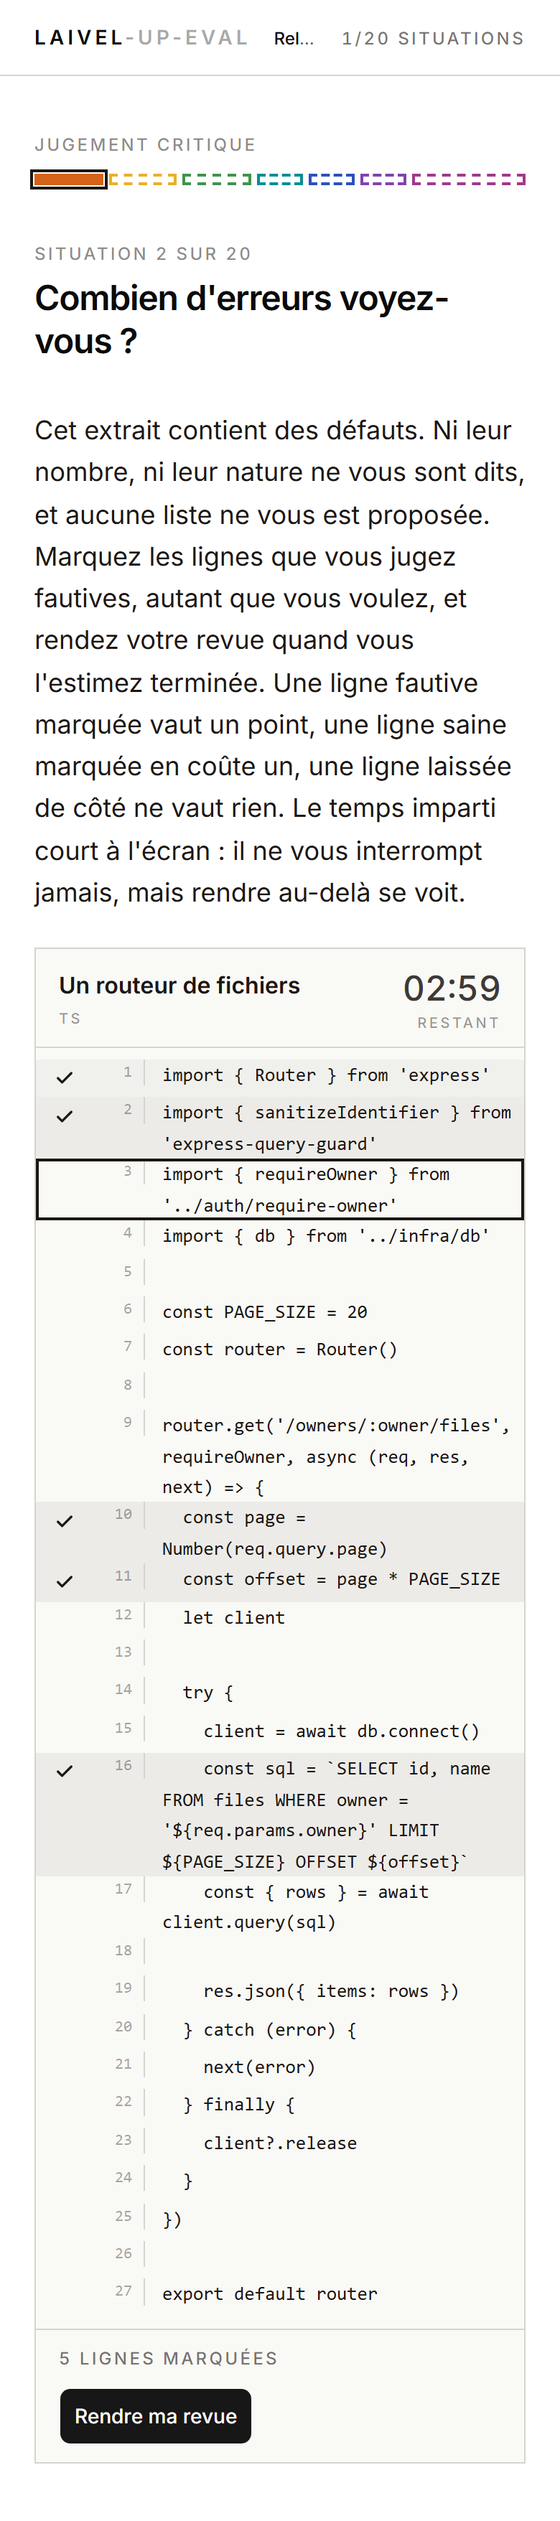
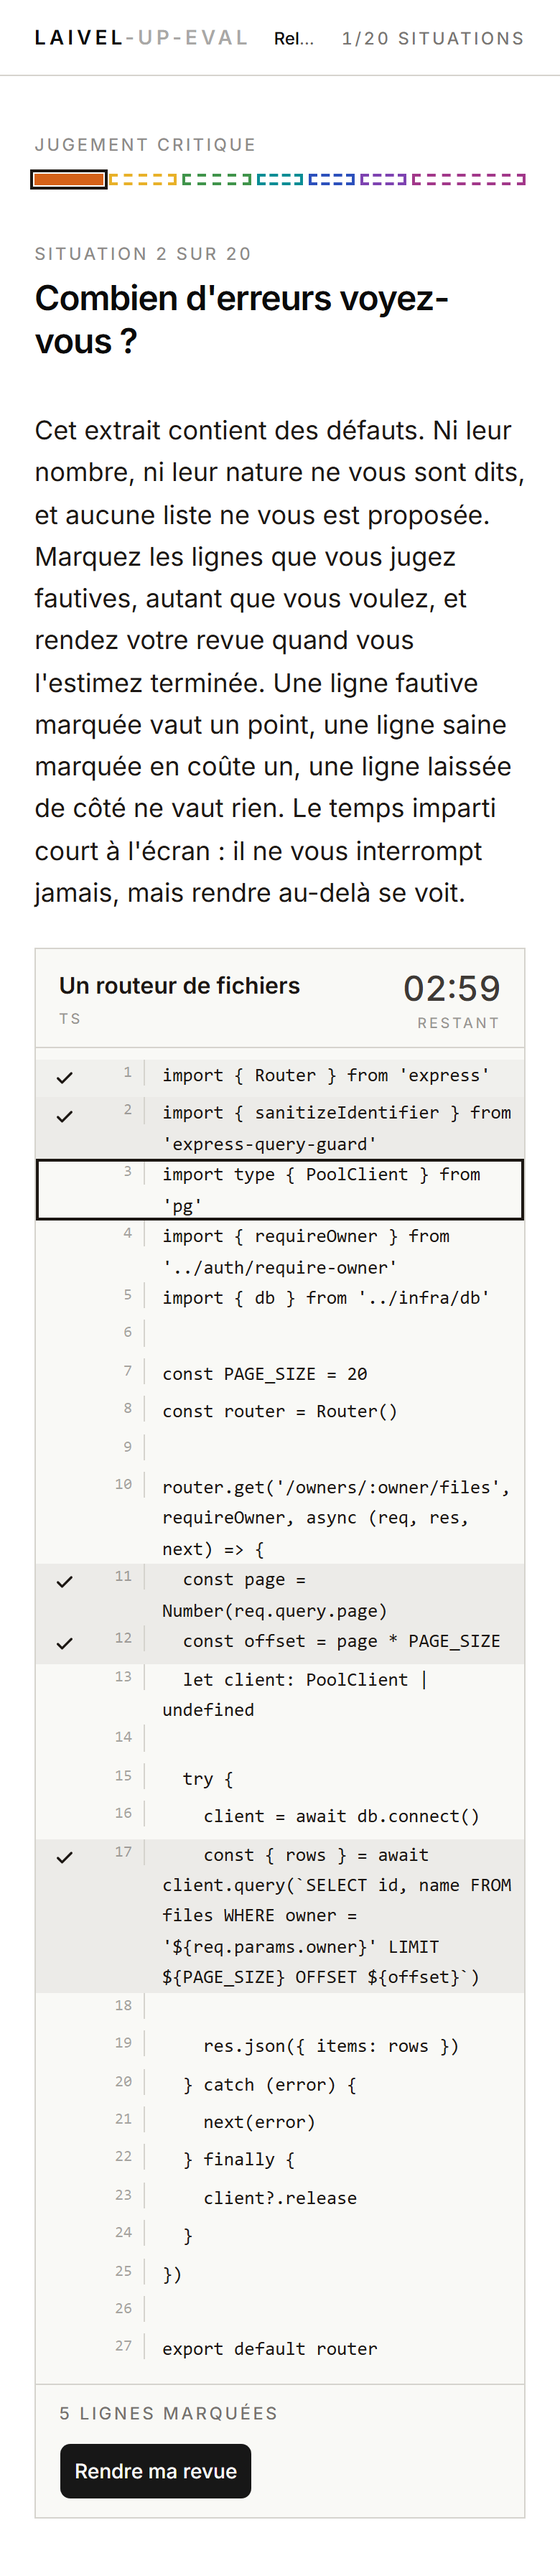
fix(games): keep every defect fixable on the line it is declared on
The targeted check found the same shape one notch up. Closing the
resource leak on a single line left the SQL injection with two fix
sites: binding a parameter means passing the value array at the call
site, so `e4` needed both the query string and `client.query(sql)`. The
class had not been eliminated, only moved and absorbed by a budget with
zero slack.

The query and its call now sit on one line, so parameter binding is
written in one place. `let client` is typed, which removes the third
defensible healthy line the check reported.

One healthy line stays defensible — the response carries no total or
cursor — against a tolerance of two. The margin is deliberate: this
corpus has been rewritten three times for assuming its tolerance
instead of enumerating it.

The "no slack" test is removed. It pinned an incidental equality, it
passed in exactly the case it claimed to catch, and its comment
described the opposite of what it did. The exhaustive-reviewer test is
the one that breaks when the list grows, and it says so now.

Also corrected: a saturator comment counting nineteen wrong marks on a
corpus that yields twenty-two, and two profile labels left over from
before the cautious reader was added.

diff --git a/__tests__/integration/course-run/defect-hunt-run.test.ts b/__tests__/integration/course-run/defect-hunt-run.test.ts
@@ -100,7 +100,7 @@ const playG1_2 = (
 
 /**
  * Les lignes du corpus réel de `config/course.json` : cinq défauts, sur les
- * lignes 2 (dépendance hallucinée), 10 (contrat), 11 (logique), 16 (sécurité)
+ * lignes 2 (dépendance hallucinée), 11 (contrat), 12 (logique), 17 (sécurité)
  * et 23 (ressource). Les autres lignes de l'extrait sont saines.
  *
  * Trois contraintes tiennent l'équité de ce corpus, et elles sont toutes
@@ -122,9 +122,9 @@ const playG1_2 = (
  */
 const DEFECT_LINES = {
   dependency: 2,
-  contract: 10,
-  logic: 11,
-  security: 16,
+  contract: 11,
+  logic: 12,
+  security: 17,
   resource: 23,
 }
 
@@ -136,22 +136,28 @@ const DEFECT_LINES = {
  * seule qui existe : toute autre ligne saine de l'extrait doit être
  * indéfendable, sinon le corpus punit la lecture correcte.
  *
- * Le seuil de score net en tolère deux, et cette liste en compte deux. Elle
- * n'a donc aucune marge : y ajouter une entrée sans bouger le seuil, c'est
- * livrer un jeu qui paie mieux le lecteur superficiel.
+ * Le seuil de score net en tolère deux sur les cinq défauts du corpus. La
+ * liste en compte une : c'est la marge, et elle est délibérée — le corpus a
+ * échoué deux fois de suite pour avoir supposé sa tolérance au lieu de
+ * l'énumérer.
  *
- * - ligne 17 : `client.query(sql)` — le relecteur qui marque le site d'appel
- *   de la requête plutôt que la construction de la chaîne ligne 16.
  * - ligne 19 : `res.json({ items: rows })` — la réponse ne porte ni total ni
  *   curseur, ce qu'un relecteur peut reprocher à un point d'entrée qui
- *   pagine.
+ *   pagine. Reproche d'hygiène d'API, pas défaut : il reste défendable.
  *
- * Deux domiciles qui existaient dans les écritures précédentes ont été
- * fermés dans le code, pas dans ce commentaire : l'absence de `finally`
- * (le vrai correctif de la fuite vivait alors sur deux lignes) et l'absence
- * de contrôle d'autorisation sur `:owner`.
+ * Quatre domiciles concurrents ont été fermés dans le code, pas dans ce
+ * commentaire, chacun après avoir été signalé :
+ *
+ * - l'absence de `finally` — le vrai correctif de la fuite vivait alors sur
+ *   deux lignes, dont une saine ;
+ * - l'appel `client.query(sql)` séparé de la construction de la requête —
+ *   lier un paramètre oblige à toucher le site d'appel, donc l'injection
+ *   avait elle aussi deux lieux de correction. Requête et appel tiennent
+ *   désormais sur une seule ligne ;
+ * - l'absence de contrôle d'autorisation sur `:owner` ;
+ * - un `let client` sans type, implicitement `any`.
  */
-const DEBATABLE_LINES = [17, 19]
+const DEBATABLE_LINES = [19]
 
 /**
  * Dérivé de l'extrait réel, jamais figé : un corpus réécrit plus long
@@ -209,7 +215,7 @@ const TABLE_FROM_PHASE_4 = [
     satisfied: { c1: true, c2: true, c3: false, c4: true },
   },
   {
-    // Marquer tout l'extrait rend cinq bonnes réponses et dix-neuf mauvaises :
+    // Marquer tout l'extrait rend cinq bonnes réponses et vingt-deux mauvaises :
     // le score net plonge, alors que la couverture reste pleine. C'est le
     // barème seul qui ferme la saturation, sans critère dédié.
     name: 'Le saturateur',
@@ -262,7 +268,7 @@ describe('defect-hunt in the course', () => {
     },
   )
 
-  it('separates the four profiles exactly as the table decides: each misses only its own criterion', () => {
+  it('separates every profile exactly as the table decides: each misses only its own criterion', () => {
     const relecteur = verificationDimension(
       playG1_2(FOUR_OF_FIVE_WITH_DEPENDENCY, 100),
     )
@@ -285,7 +291,7 @@ describe('defect-hunt in the course', () => {
   })
 
   /**
-   * Le cinquième profil, et le plus important : celui qui lit bien.
+   * Le profil décisif, ajouté après la revue indépendante : celui qui lit bien.
    *
    * Un relecteur méticuleux trouve les cinq défauts ET signale deux lignes
    * que le corpus ne déclare pas — un point de style, une lecture discutable.
@@ -306,28 +312,30 @@ describe('defect-hunt in the course', () => {
   })
 
   /**
-   * Le garde-fou qui manquait, et sans lequel le test précédent n'est que de
-   * l'arithmétique : il vérifiait `5 − 2 ≥ 3` en marquant deux imports
-   * irréprochables, et il aurait passé à l'identique sur un corpus dont
-   * quatre lignes saines étaient défendables.
+   * Le test précédent est celui qui casse si `DEBATABLE_LINES` s'allonge :
+   * à trois entrées, le relecteur exhaustif tombe à `5 − 3 = 2`, sous le
+   * seuil, et son score cesse d'être plein.
    *
-   * La liste des lignes discutables n'a aucune marge face au seuil. Ce test
-   * casse dès qu'on lui en ajoute une sans bouger le seuil, ce qui force la
-   * question à revenir sur la table plutôt qu'à passer en silence.
+   * Un second test qui aurait affirmé « une entrée de plus coulerait le
+   * relecteur exhaustif » a existé et a été retiré : il épinglait
+   * l'égalité `|DEBATABLE_LINES| = 2`, une coïncidence de l'écriture d'alors
+   * et non une propriété qu'on veuille tenir. Il passait précisément dans le
+   * cas où il prétendait alerter, et son commentaire décrivait l'inverse de
+   * ce qu'il faisait.
    */
-  it('leaves the debatable-line budget with no slack: one more would sink the exhaustive reviewer', () => {
-    const uneDeTrop = [
-      ...Object.values(DEFECT_LINES),
-      ...DEBATABLE_LINES,
-      FALSE_POSITIVE_LINE,
-    ]
+  it('lets a wrong mark cost exactly one point, no more', () => {
+    const juste = verificationDimension(
+      playG1_2([...Object.values(DEFECT_LINES)], 100),
+    )
+    const uneErreur = verificationDimension(
+      playG1_2([...Object.values(DEFECT_LINES), FALSE_POSITIVE_LINE], 100),
+    )
 
-    const dimension = verificationDimension(playG1_2(uneDeTrop, 100))
-    const netScoreSatisfied = dimension.contributions.find(
-      (contribution) => contribution.criterionId === 'g1-2-c1',
-    )?.satisfied
-
-    expect(netScoreSatisfied).toBe(false)
+    // Cinq bonnes réponses valent 5, cinq bonnes et une mauvaise valent 4 :
+    // les deux tiennent le seuil de 3, et le barème n'a donc pas d'effet de
+    // falaise sur une seule erreur.
+    expect(juste.score).toBe(1)
+    expect(uneErreur.score).toBe(1)
   })
 
   it('loads the real course and opens the Jugement critique group on the second situation, defect-hunt', () => {

diff --git a/aidd_docs/tasks/2026_08/2026_08_30_jeu-defect-hunt/plan.md b/aidd_docs/tasks/2026_08/2026_08_30_jeu-defect-hunt/plan.md
@@ -39,6 +39,7 @@ status: implemented
 | **Le nombre de défauts n'est pas annoncé**, et le barème le remplace : +1 par ligne fautive marquée, −1 par ligne saine marquée, 0 pour une ligne laissée de côté | Décision produit du 30/08, prise après la revue du candidat. Un compte annoncé donne une règle d'arrêt, et le joueur apprend à jouer le nombre plutôt qu'à lire — le profil qui trouve tout puis s'arrête au compte annoncé sortait mieux noté que le relecteur exhaustif. Le point négatif rend le marquage au hasard perdant sans qu'aucun compte n'ait à être donné, et le zéro sur une ligne laissée de côté fait que ne pas savoir n'est jamais puni : seule l'affirmation fausse l'est. Le critère qui comptait séparément les faux positifs disparaît — le barème les fait déjà payer un par un, et le garder les punirait deux fois pour la même marque |
 | Le seuil du score net est **3 sur 5**, pas 4 | À 4, un relecteur qui trouve les cinq défauts n'a droit qu'à une seule marque discutable. À 3, il en a deux, ce qui correspond exactement à la tolérance que la rédaction du corpus vise. Le critère de couverture (80 %) tient l'autre bout : on ne peut pas atteindre 3 en marquant trois lignes au hasard |
 | Chaque ligne fautive du corpus porte une **instruction complète** : aucun défaut n'est posé à l'intérieur d'un appel ou d'un bloc qui s'étale sur plusieurs lignes | Trouvé à la relecture du premier corpus livré, qui posait l'injection au milieu d'un appel sur trois lignes et la fuite de ressource au milieu d'un bloc de quatre. Un joueur qui lit juste mais clique la ligne voisine payait alors deux fois — un faux positif **et** un défaut manqué — et le jeu mesurait la devinette du découpage plutôt que la lecture. Le garde-fou est un test d'intégration sur l'équilibre des parenthèses et des accolades de chaque ligne fautive, pour que le prochain corpus ne puisse pas rouvrir le trou |
+| Un défaut dont le correctif s'étale sur deux lignes n'a pas sa place dans le corpus, **quelle que soit sa nature** | La règle du lieu de correction unique a été posée pour la fuite de ressource, puis violée par l'injection SQL à l'écriture suivante : lier un paramètre oblige à passer le tableau de valeurs au site d'appel, donc la requête et son appel devaient tenir sur la même ligne. Deux échecs de suite sur la même forme, deux natures différentes : ce n'est pas une propriété d'un défaut, c'est une contrainte de rédaction du corpus entier |
 | Un défaut n'a qu'un seul **lieu de correction**, ce qui est plus fort qu'un seul marqueur textuel | Le garde-fou précédent a été contourné par le corpus lui-même à la deuxième écriture : la fuite était déclarée sur `client.release` sans parenthèses, marqueur unique dans le fichier, mais le bloc n'avait pas de `finally` — le correctif complet vivait donc sur deux lignes. Et comme `page` vaut `NaN` sans paramètre, `OFFSET NaN` fait toujours échouer la requête : le chemin d'erreur était le chemin **par défaut**, et la ligne du `release` n'était jamais atteinte. Un relecteur qui marquait les deux sortait à 0, celui qui n'en voyait qu'une sortait à +1. Le jeu payait mieux la lecture superficielle — l'inverse exact de ce qu'il mesure. Le `finally` existe désormais et seules les parenthèses manquent |
 | Les lignes saines encore défendables sont **listées et comptées** dans `DEBATABLE_LINES`, et un test casse si on en ajoute une sans bouger le seuil | Un test qui affirmait « le relecteur exhaustif garde son score » en marquant deux imports irréprochables ne vérifiait que `5 − 2 ≥ 3`, de l'arithmétique — il aurait passé à l'identique sur le corpus que la revue avait fait rejeter. Une tolérance qui n'est pas énumérée n'est pas une tolérance, c'est une supposition |
 | La frontière avec `confidence-bet` est tenue : la dépendance hallucinée appartient à **ce** jeu | Tranché en phase 4 du plan `confidence-bet` : une dépendance hallucinée ne se juge pas dans les lignes montrées, ce qui est mot pour mot la définition de l'indécidable chez le voisin. Ici, où le joueur balaie tout l'extrait ligne à ligne plutôt que de trancher un verdict global, l'appel est fermé et le défaut redevient trouvable |

diff --git a/aidd_docs/tasks/2026_08/2026_08_30_jeu-defect-hunt/phase-4.md b/aidd_docs/tasks/2026_08/2026_08_30_jeu-defect-hunt/phase-4.md
@@ -79,7 +79,7 @@ journey
 
 ### `2)` Les quatre critères
 
-> **Repris le 30/08, après la décision produit.** Le nombre de défauts n'est plus annoncé et le barème le remplace : +1 par ligne fautive marquée, −1 par ligne saine marquée, 0 pour une ligne laissée de côté. Le critère qui comptait séparément les faux positifs disparaît — le barème les fait déjà payer un par un, et le garder les punirait deux fois pour la même marque. Le garde-fou contre la saturation est désormais le barème lui-même : marquer les vingt-quatre lignes rend cinq bonnes réponses et dix-neuf mauvaises.
+> **Repris le 30/08, après la décision produit.** Le nombre de défauts n'est plus annoncé et le barème le remplace : +1 par ligne fautive marquée, −1 par ligne saine marquée, 0 pour une ligne laissée de côté. Le critère qui comptait séparément les faux positifs disparaît — le barème les fait déjà payer un par un, et le garder les punirait deux fois pour la même marque. Le garde-fou contre la saturation est désormais le barème lui-même : marquer les vingt-sept lignes rend cinq bonnes réponses et vingt-deux mauvaises.
 
 1. `g1-2-c1` — « Le score net de la revue atteint-il son seuil ? » · `net-score-at-least` à `3` · `verification`, poids **2**. Trois sur cinq et non quatre : à quatre, un relecteur qui trouve tout n'a droit qu'à une seule marque discutable, et la rédaction du corpus en tolère deux.
 2. `g1-2-c2` — « Au moins 80 % des défauts de l'extrait ont-ils été trouvés ? » · `found-ratio-at-least` à `0.8` · `verification`, poids **2**. Il tient l'autre bout du barème : on n'atteint pas le score net en marquant trois lignes au hasard.
@@ -114,7 +114,7 @@ journey
 | Le lent | 4/5 dont la dépendance | 1 | 200 s | seul `c4` manqué |
 | **Le relecteur exhaustif** | 5/5 | 2 | 100 s | les quatre critères satisfaits |
 
-6. Le cinquième profil est le plus important, et il est arrivé après la revue indépendante : celui qui lit bien signale aussi deux lignes discutables, et il doit sortir au score plein. S'il n'y arrive pas, le jeu récompense celui qui s'arrête plutôt que celui qui lit — l'inverse de ce que la story mesure.
+6. Le profil du relecteur exhaustif est le plus important, et il est arrivé après la revue indépendante : celui qui lit bien signale aussi les lignes que le corpus reconnaît comme discutables, et il doit sortir au score plein. S'il n'y arrive pas, le jeu récompense celui qui s'arrête plutôt que celui qui lit — l'inverse de ce que la story mesure.
 7. Ces profils sont le barème : s'ils ne se séparent pas comme le tableau le dit, ce sont les seuils du parcours qu'il faut reprendre, pas le test.
 
 ## Test acceptance criteria

diff --git a/aidd_docs/tasks/2026_08/2026_08_30_jeu-defect-hunt/phase-2.md b/aidd_docs/tasks/2026_08/2026_08_30_jeu-defect-hunt/phase-2.md
@@ -74,7 +74,7 @@ journey
 3. `net-score-at-least` — `{ threshold }`, comparaison **inclusive**. Le score net de la revue : un point par ligne fautive marquée, un de moins par ligne saine marquée, rien pour une ligne laissée de côté. Il peut être négatif.
 4. `found-ratio-at-least` — `{ threshold }`, comparaison **inclusive**. La story dit « au moins 80 % » : atteindre le seuil suffit, comme les bornes de la grille.
 
-> **Repris le 30/08, après la décision produit.** La règle `false-positives-at-most` a existé et a été retirée. Le barème fait déjà payer chaque marque fausse un point ; un second critère qui les aurait recomptées contre un seuil séparé les aurait punies deux fois pour la même marque. Le garde-fou contre la saturation est désormais le barème lui-même : marquer toutes les lignes de l'extrait rend cinq bonnes réponses et dix-neuf mauvaises. La règle retirée ne survit nulle part — un type déclaratif que plus aucun parcours n'appelle serait du code mort.
+> **Repris le 30/08, après la décision produit.** La règle `false-positives-at-most` a existé et a été retirée. Le barème fait déjà payer chaque marque fausse un point ; un second critère qui les aurait recomptées contre un seuil séparé les aurait punies deux fois pour la même marque. Le garde-fou contre la saturation est désormais le barème lui-même : marquer toutes les lignes de l'extrait rend cinq bonnes réponses et vingt-deux mauvaises. La règle retirée ne survit nulle part — un type déclaratif que plus aucun parcours n'appelle serait du code mort.
 5. `kinds-found-including` — `{ kinds: string[] }`, satisfait quand **chaque** nature listée figure parmi les natures trouvées. Un `every`, jamais un `some` : la règle nomme un ensemble d'exigences, pas un choix.
 6. `within-time-budget` — **sans seuil**. Elle lit `timeLimitSeconds` de la configuration et vérifie `elapsedSeconds <= timeLimitSeconds`. Documenter pourquoi : un seuil séparé dans la règle permettrait qu'un écran montre trois minutes pendant qu'un critère en note deux, et le jeu mentirait au joueur.
 7. Une règle inconnue lève une erreur nommée qui cite la règle et le jeu, sur le modèle de `UnknownRuleError` de `confidence-bet`.

diff --git a/aidd_docs/tasks/2026_08/2026_08_30_jeu-defect-hunt/qa/README.md b/aidd_docs/tasks/2026_08/2026_08_30_jeu-defect-hunt/qa/README.md
@@ -45,7 +45,17 @@ Le corpus déclarait alors la fuite sur `client.release` sans parenthèses — m
 
 Un relecteur qui diagnostiquait complètement et marquait les deux lignes sortait à `+1 − 1 = 0`. Celui qui n'en voyait que la moitié sortait à `+1`. **Le jeu payait mieux la lecture superficielle.**
 
-L'extrait a été réécrit une troisième fois : le `finally` existe, seules les parenthèses manquent, un contrôle d'autorisation visible ferme la ligne du routeur, et la réponse ne promet plus de pagination. Les deux lignes saines encore défendables sont désormais énumérées dans le test d'intégration, sous le nom `DEBATABLE_LINES`, avec un test qui casse si on en ajoute une troisième.
+L'extrait a été réécrit une troisième fois : le `finally` existe, seules les parenthèses manquent, un contrôle d'autorisation visible ferme la ligne du routeur, et la réponse ne promet plus de pagination.
+
+## Ce que la vérification ciblée a trouvé
+
+La troisième écriture fermait bien la fuite, mais faisait apparaître **la même forme sur l'injection SQL** : lier un paramètre oblige à passer le tableau de valeurs au site d'appel, donc `e4` avait lui aussi deux lieux de correction — la construction de la requête et son appel. Le constat n'avait pas disparu comme classe, il s'était déplacé d'un cran et se trouvait absorbé par un budget à zéro marge.
+
+Une troisième ligne saine défendable a également été signalée : `let client` sans type, implicitement `any`.
+
+Quatrième écriture, et la dernière : la requête et son appel tiennent sur une seule ligne, `let client` est typé. Il ne reste **qu'une** ligne saine défendable — `res.json({ items: rows })`, sans total ni curseur — pour une tolérance de deux. La marge est délibérée, et la liste vit sous le nom `DEBATABLE_LINES` dans le test d'intégration, avec le test du relecteur exhaustif qui casse si elle s'allonge à trois.
+
+Un second test, qui affirmait que le budget n'avait aucune marge, a été retiré : il épinglait une coïncidence de l'écriture d'alors, passait précisément dans le cas où il prétendait alerter, et son commentaire décrivait l'inverse de ce qu'il faisait.
 
 ## Ce que la décision produit du 30/08 a changé
 

diff --git a/aidd_docs/backlog/stories/trouver-les-erreurs-sans-liste.md b/aidd_docs/backlog/stories/trouver-les-erreurs-sans-liste.md
@@ -52,4 +52,8 @@ Trois garde-fous le tiennent, tous dans le test d'intégration :
 2. Le marqueur de chaque défaut n'apparaît qu'une fois dans tout l'extrait.
 3. Les lignes saines encore défendables vivent dans une liste nommée, revue à la main, et un test casse dès qu'on lui en ajoute une sans bouger le seuil.
 
-Le troisième est né d'un échec des deux premiers. La fuite de connexion a d'abord été posée sur un retour anticipé, puis sur un `release` sans parenthèses dans un bloc sans `finally` : dans les deux cas le correctif complet vivait sur deux lignes, et un relecteur qui diagnostiquait juste en marquant les deux sortait **moins bien noté** que celui qui n'en voyait que la moitié. Un marqueur textuel unique ne prouve pas un lieu de correction unique.
+Le troisième est né d'un échec des deux premiers, et le corpus a dû être réécrit trois fois avant de tenir.
+
+La fuite de connexion a d'abord été posée sur un retour anticipé, puis sur un `release` sans parenthèses dans un bloc sans `finally` : dans les deux cas le correctif complet vivait sur deux lignes, et un relecteur qui diagnostiquait juste en marquant les deux sortait **moins bien noté** que celui qui n'en voyait que la moitié. Un marqueur textuel unique ne prouve pas un lieu de correction unique.
+
+La troisième écriture a fait apparaître la même forme sur l'injection SQL : lier un paramètre oblige à toucher aussi le site d'appel, donc la requête et son appel devaient tenir sur la même ligne. La leçon est générale — **un défaut dont le correctif s'étale sur deux lignes n'a rien à faire dans ce corpus**, quelle que soit sa nature.
